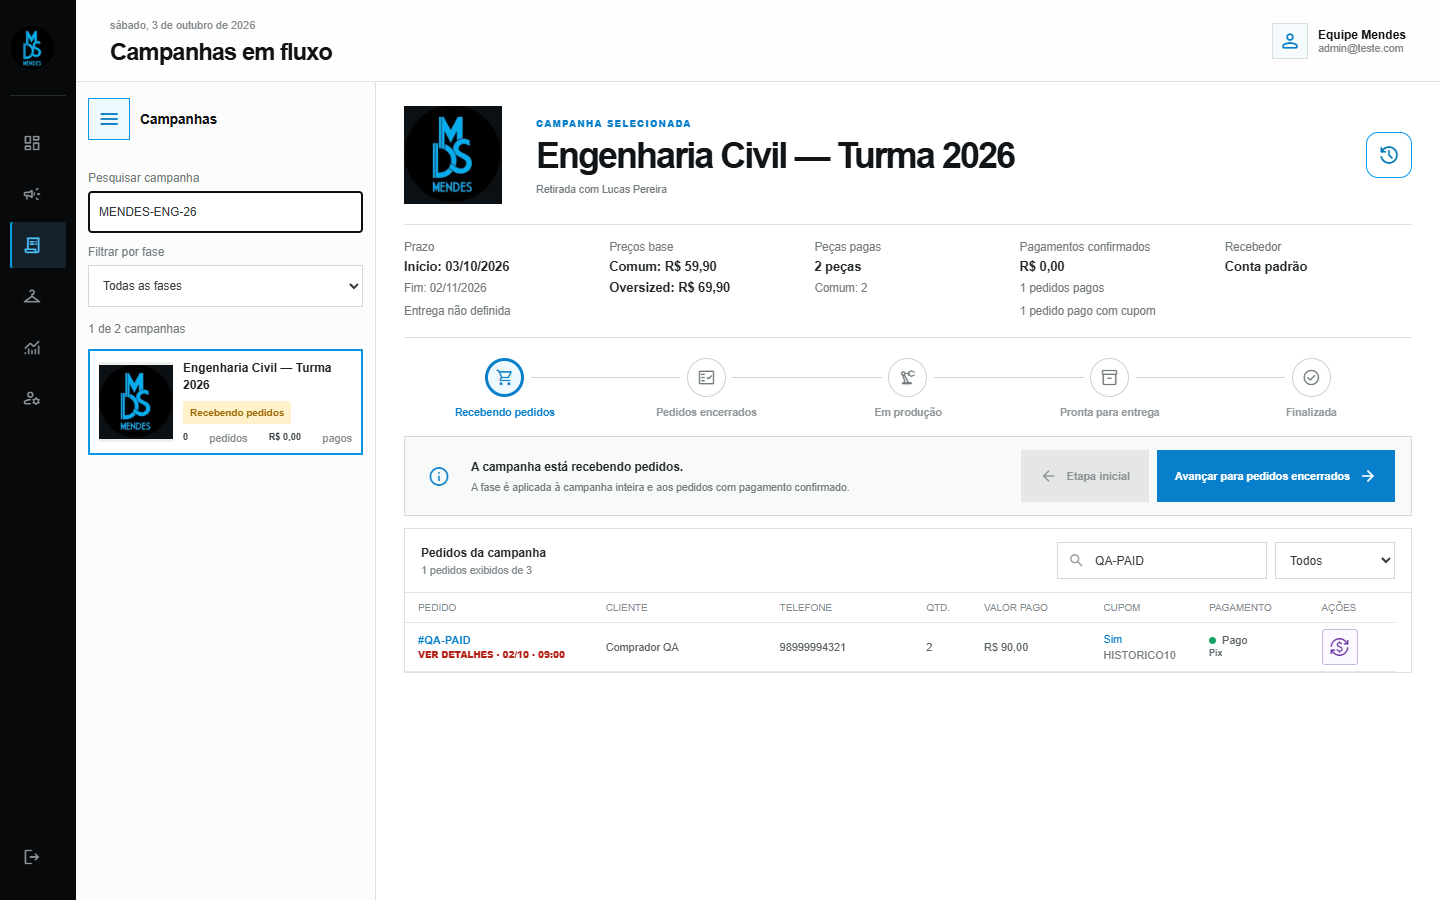
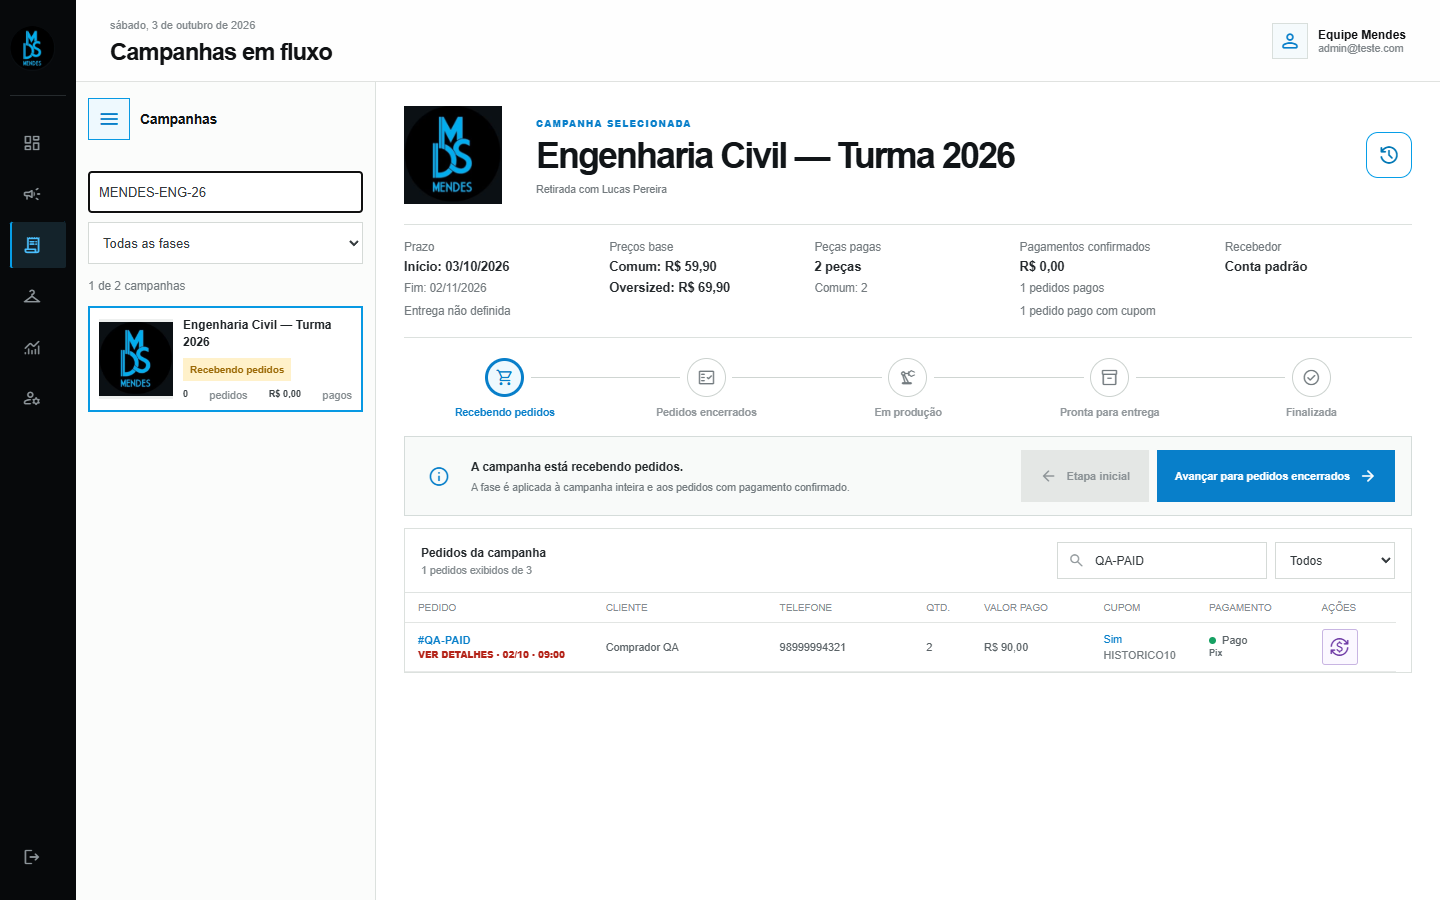
style: match campaign filters to approved preview

Changed region(s): [[0.0625, 0.1867, 0.25, 0.4978]]

diff --git a/src/features/orders/Orders.tsx b/src/features/orders/Orders.tsx
@@ -200,8 +200,8 @@ export function Orders({ data }: { data: PanelData }) {
           <header className="orders-campaign-menu-header"><button className="orders-picker-launch" type="button" title={campaignMenuOpen ? 'Ocultar campanhas' : 'Mostrar campanhas'} aria-label={campaignMenuOpen ? 'Ocultar campanhas' : 'Mostrar campanhas'} aria-expanded={campaignMenuOpen} aria-controls="orders-campaign-menu" onClick={() => setCampaignMenuOpen(!campaignMenuOpen)}><span className="material-symbols-rounded" aria-hidden="true">menu</span></button><h3>Campanhas</h3></header>
           <div id="orders-campaign-menu" hidden={!campaignMenuOpen}>
             <div className="orders-picker-filters">
-              <label><span>Pesquisar campanha</span><input ref={pickerSearchRef} value={campaignSearch} onChange={(event) => setCampaignSearch(event.target.value)} placeholder="Nome ou código da campanha" /></label>
-              <label><span>Filtrar por fase</span><select value={phaseFilter} onChange={(event) => setPhaseFilter(event.target.value as 'all' | CampaignPhaseCode)}><option value="all">Todas as fases</option>{phaseOrder.map((phase) => <option key={phase} value={phase}>{phaseMeta[phase].label}</option>)}</select></label>
+              <label><input aria-label="Pesquisar campanha" ref={pickerSearchRef} value={campaignSearch} onChange={(event) => setCampaignSearch(event.target.value)} placeholder="Pesquisar nome ou código" /></label>
+              <label><select aria-label="Filtrar por fase" value={phaseFilter} onChange={(event) => setPhaseFilter(event.target.value as 'all' | CampaignPhaseCode)}><option value="all">Todas as fases</option>{phaseOrder.map((phase) => <option key={phase} value={phase}>{phaseMeta[phase].label}</option>)}</select></label>
             </div>
             <p className="orders-picker-count" role="status">{filteredCampaigns.length} de {campaigns.length} campanhas</p>
             <div className="orders-campaign-list">

diff --git a/src/styles/admin.css b/src/styles/admin.css
@@ -1918,6 +1918,8 @@ input[aria-invalid="true"] { border-color: #b83b3b; }
 .orders-campaign-rail.orders-campaign-rail--list { padding: 16px 12px; }
 .orders-campaign-rail > header.orders-campaign-menu-header { display: flex; align-items: center; justify-content: flex-start; gap: 10px; padding: 0 0 15px; }
 .orders-campaign-rail--list .orders-picker-launch { width: 42px; flex: 0 0 42px; justify-content: center; }
+.orders-campaign-rail--list .orders-picker-filters { gap: 9px; }
+.orders-campaign-rail--list .orders-picker-filters input, .orders-campaign-rail--list .orders-picker-filters select { min-height: 42px; padding: 10px; font-size: 13px; }
 .orders-campaign-menu-header h3 { margin: 0; font-size: .85rem; }
 .orders-campaign-rail.is-collapsed .orders-campaign-menu-header h3 { display: none; }
 .orders-campaign-rail [hidden] { display: none; }
